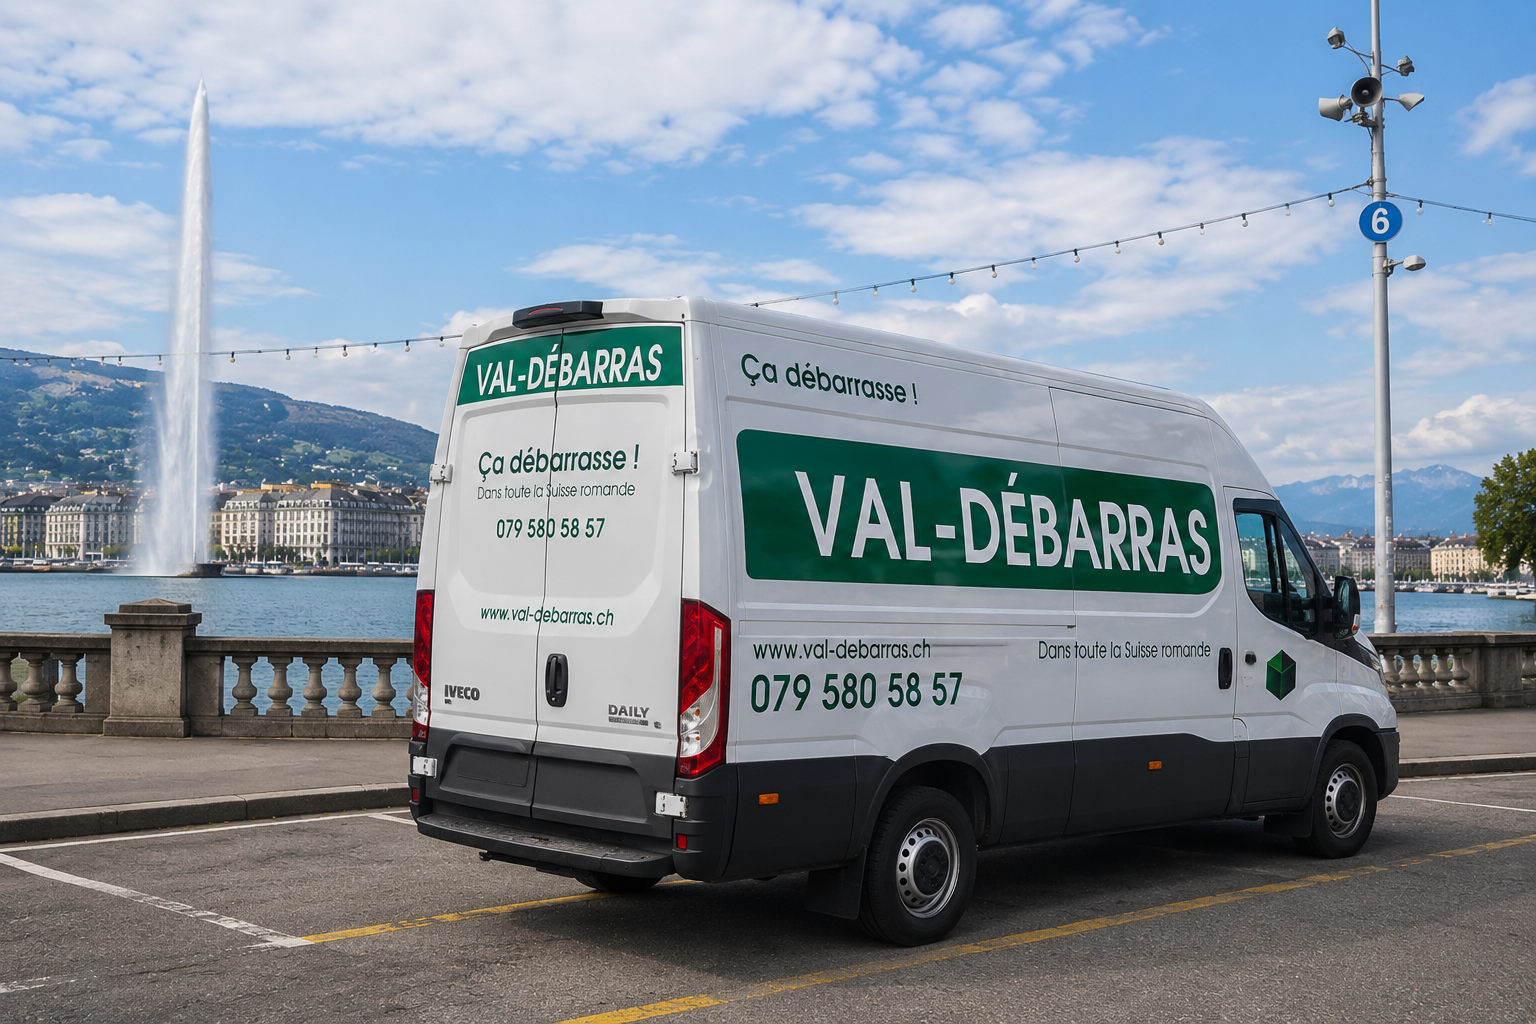
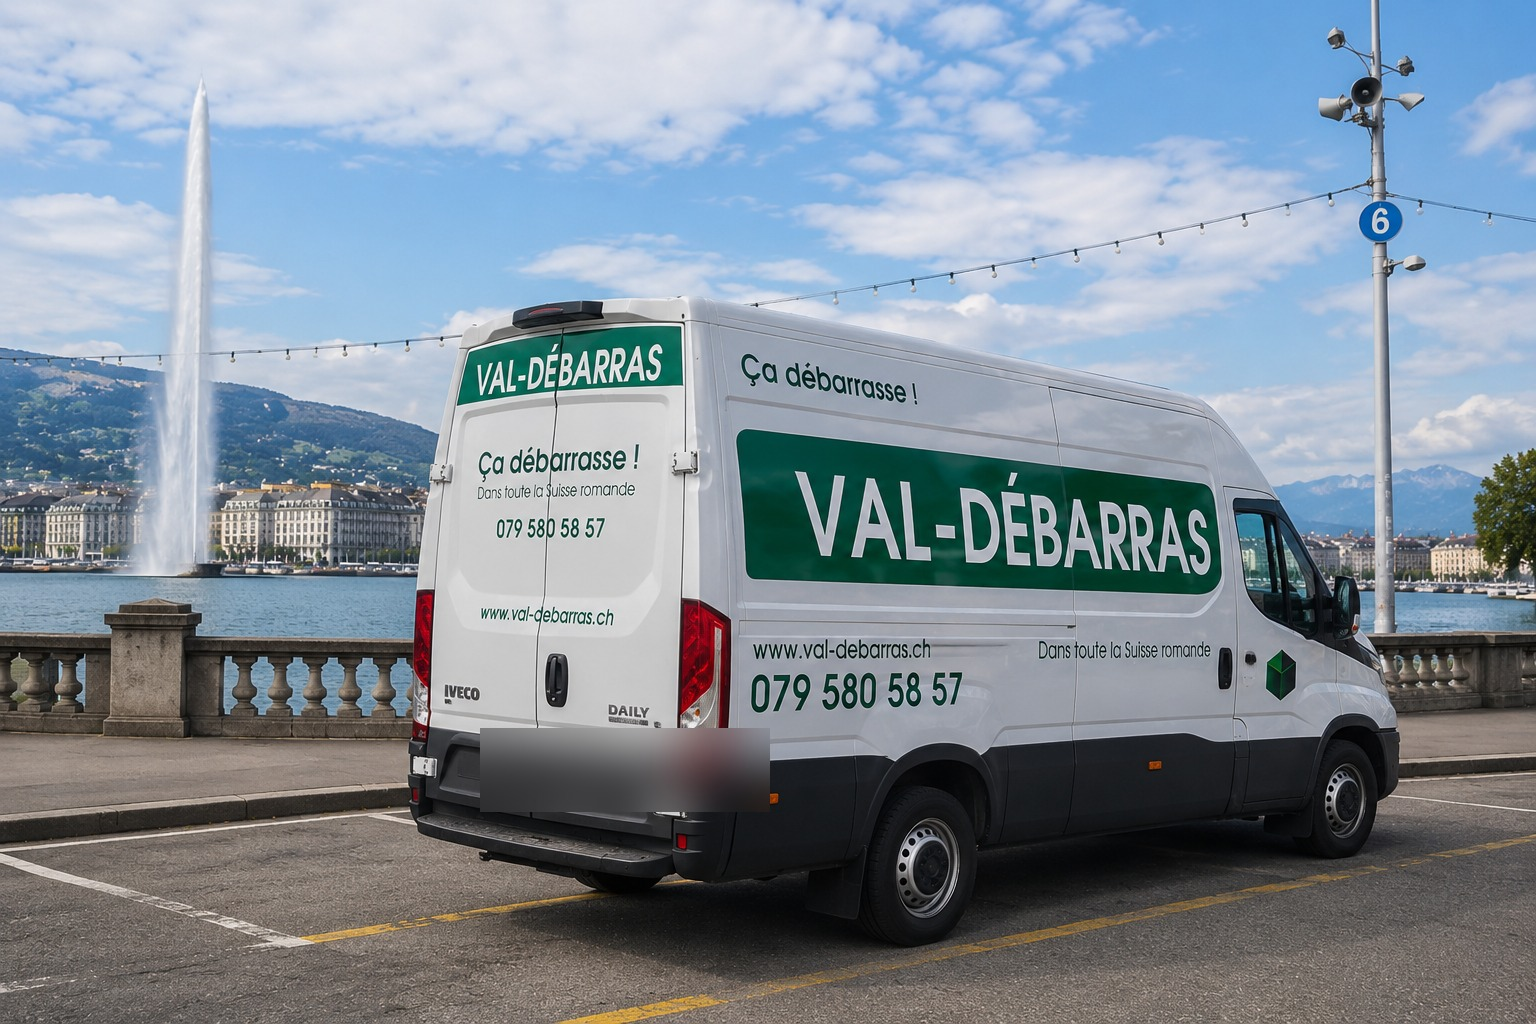
fix(privacy+mobile): difuminar matrículas en 12 fotos + texto hero legible en mobile
- Aplicar Gaussian blur (radio 22px) sobre zonas de matrícula en todas
  las fotos reales de furgonetas (12 imágenes)
- fix index.html: aumentar especificidad .hero .hero-title y .hero .hero-accent
  para superar .hero h1{color:white} y evitar texto invisible en móvil

https://claude.ai/code/session_01BKUVoy8pweZhYcrb1HfKkX

Changed region(s): [[0.3125, 0.6875, 0.5, 0.8125], [0.3438, 0.7812, 0.375, 0.8125]]

diff --git a/index.html b/index.html
@@ -1456,7 +1456,7 @@ body{font-size:16px;line-height:1.7;}
     margin-bottom: 8px;
   }
 
-  .hero-title {
+  .hero .hero-title {
     font-size: 28px;
     font-weight: 800;
     line-height: 1.2;
@@ -1464,7 +1464,7 @@ body{font-size:16px;line-height:1.7;}
     margin-bottom: 12px;
   }
 
-  .hero-accent {
+  .hero .hero-accent {
     color: #2E7D32;
     display: block;
     font-size: 24px;
